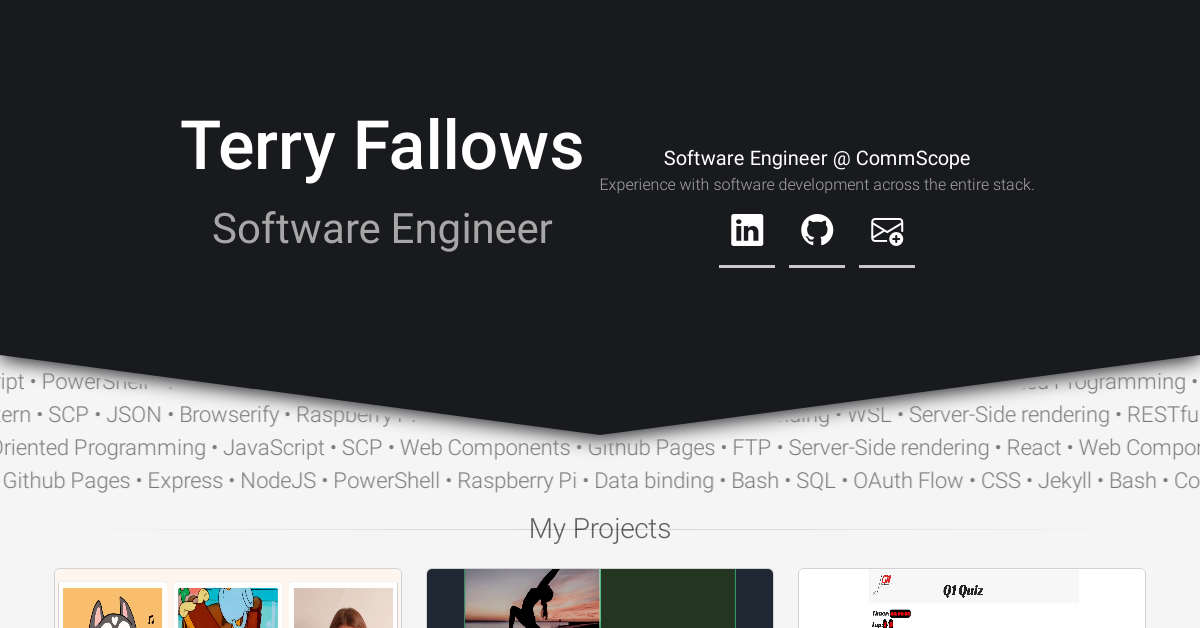
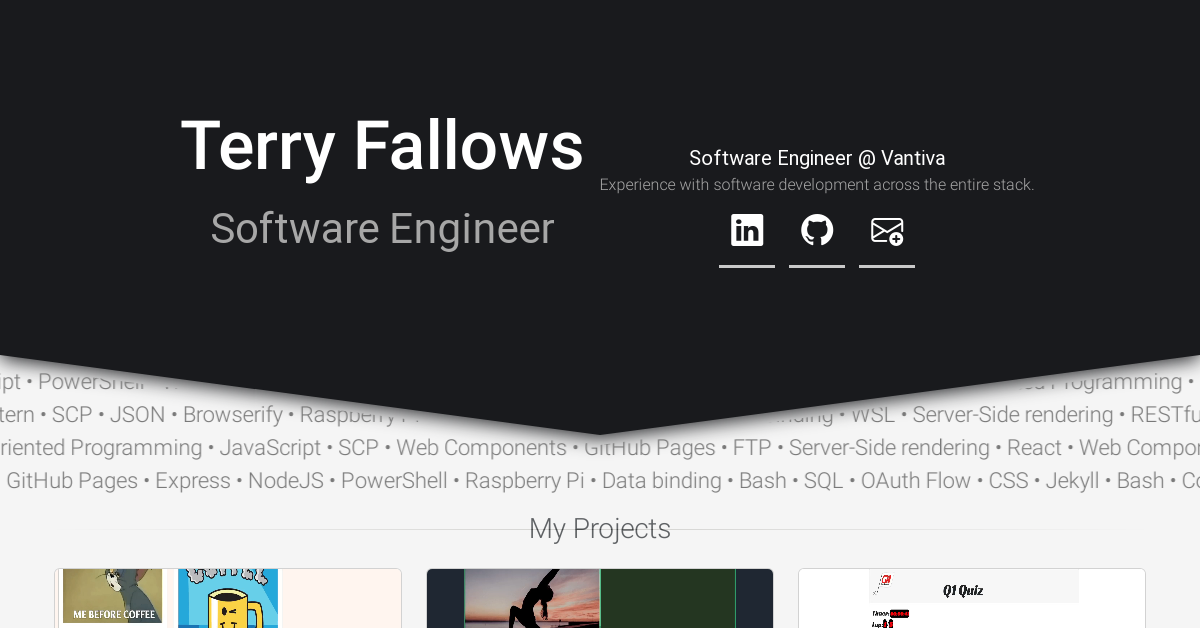
Updated meta description and website preview.

diff --git a/index.html b/index.html
@@ -4,16 +4,16 @@
 	<!-- PRIMARY META TAGS -->
 	<meta charset="utf-8" />
 	<meta name="viewport" content="width=device-width, initial-scale=1" />
-	<meta property="description" content="Welcome to my portfolio, I am a lover of all things code, currently enhancing STB UI/UX for customers at CommScope." />
+	<meta property="description" content="Welcome to my portfolio, I am a lover of all things code, currently enhancing STB UI/UX for our customers of Vantiva." />
 	<meta property="og:type" content="website" />
 	<meta property="og:url" content="https://weion.dev/" />
 	<meta property="og:title" content="Terry Fallows | Software Engineer" />
-	<meta property="og:description" content="Welcome to my portfolio, I am a lover of all things code, currently enhancing STB UI/UX for customers at CommScope." />
+	<meta property="og:description" content="Welcome to my portfolio, I am a lover of all things code, currently enhancing STB UI/UX for our customers of Vantiva." />
 	<meta property="og:image" content="https://weion.dev/assets/img/meta_img.webp" />
 	<meta name="twitter:card" content="summary_large_image" />
 	<meta name="twitter:url" content="https://weion.dev/" />
 	<meta name="twitter:title" content="Terry Fallows | Software Engineer" />
-	<meta name="twitter:description" content="Welcome to my portfolio, I am a lover of all things code, currently enhancing STB UI/UX for customers at CommScope." />
+	<meta name="twitter:description" content="Welcome to my portfolio, I am a lover of all things code, currently enhancing STB UI/UX for our customers of Vantiva." />
 	<meta name="twitter:image" content="https://weion.dev/assets/img/meta_img.webp" />
 	<!-- ─── ADD FAVICONS ─────────────────────────────────────────────────── -->
 	<link href="./assets/img/favicon.png" rel="shortcut icon" type="image/png" />
